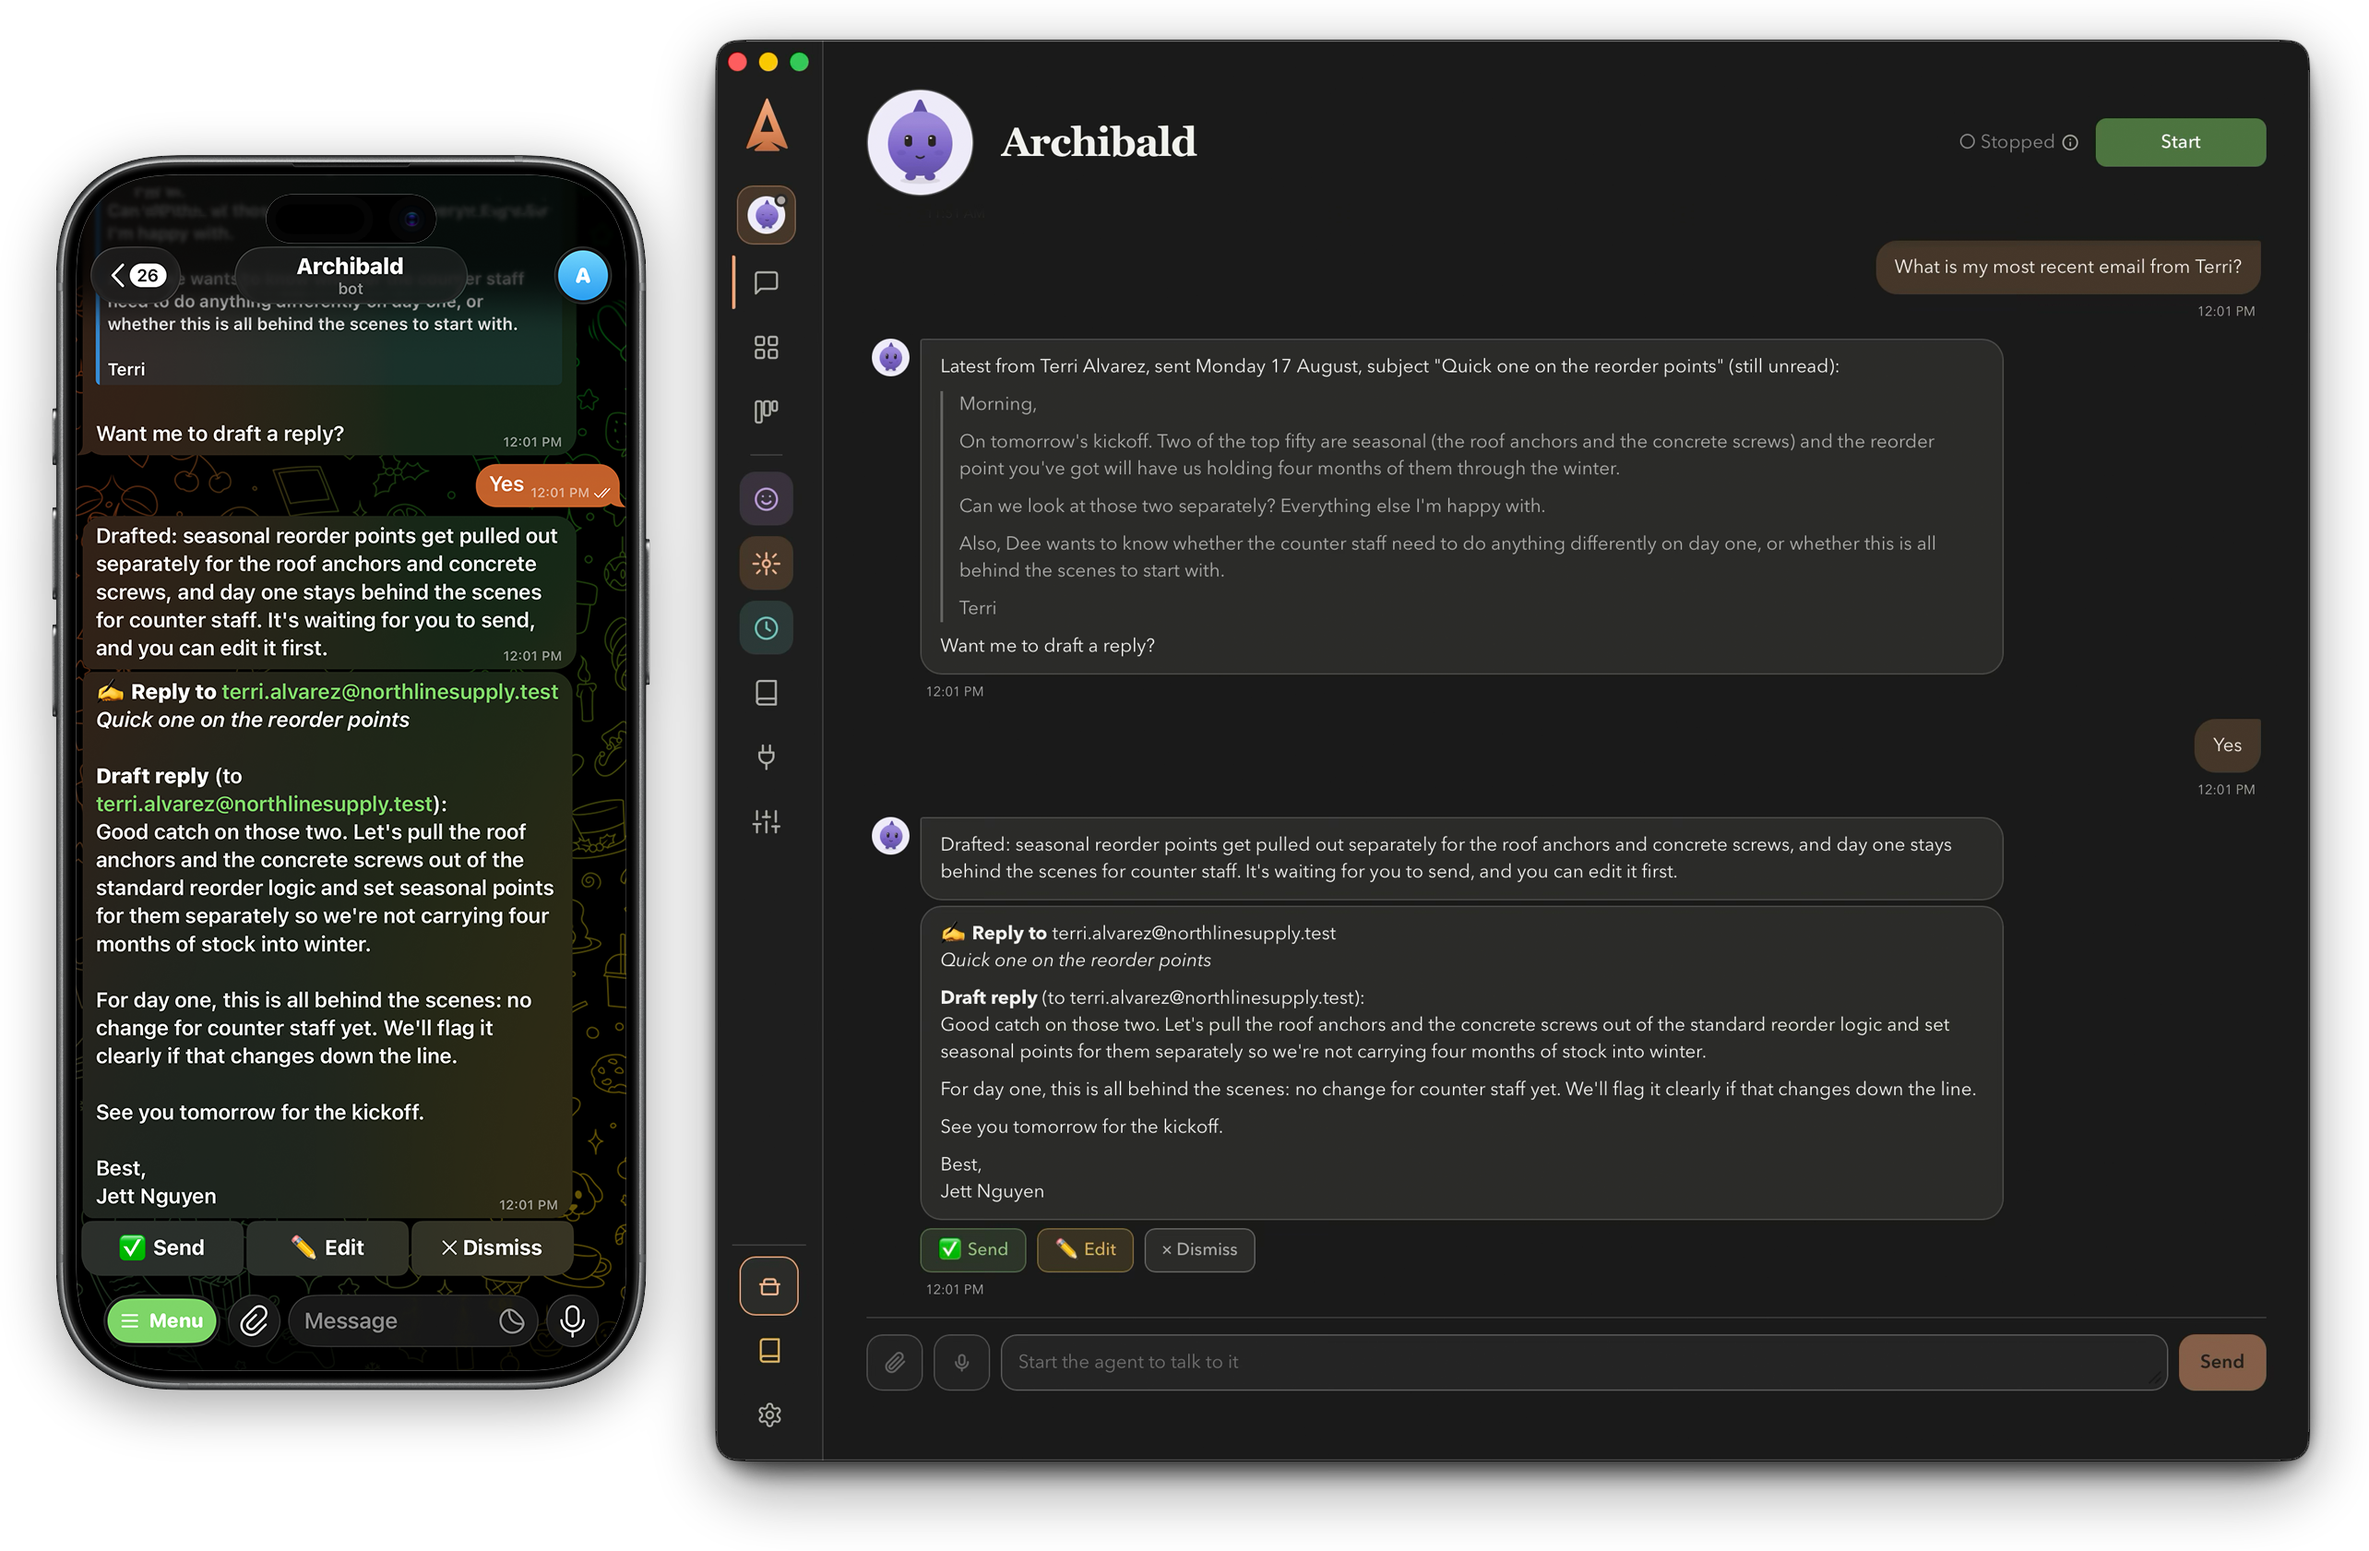
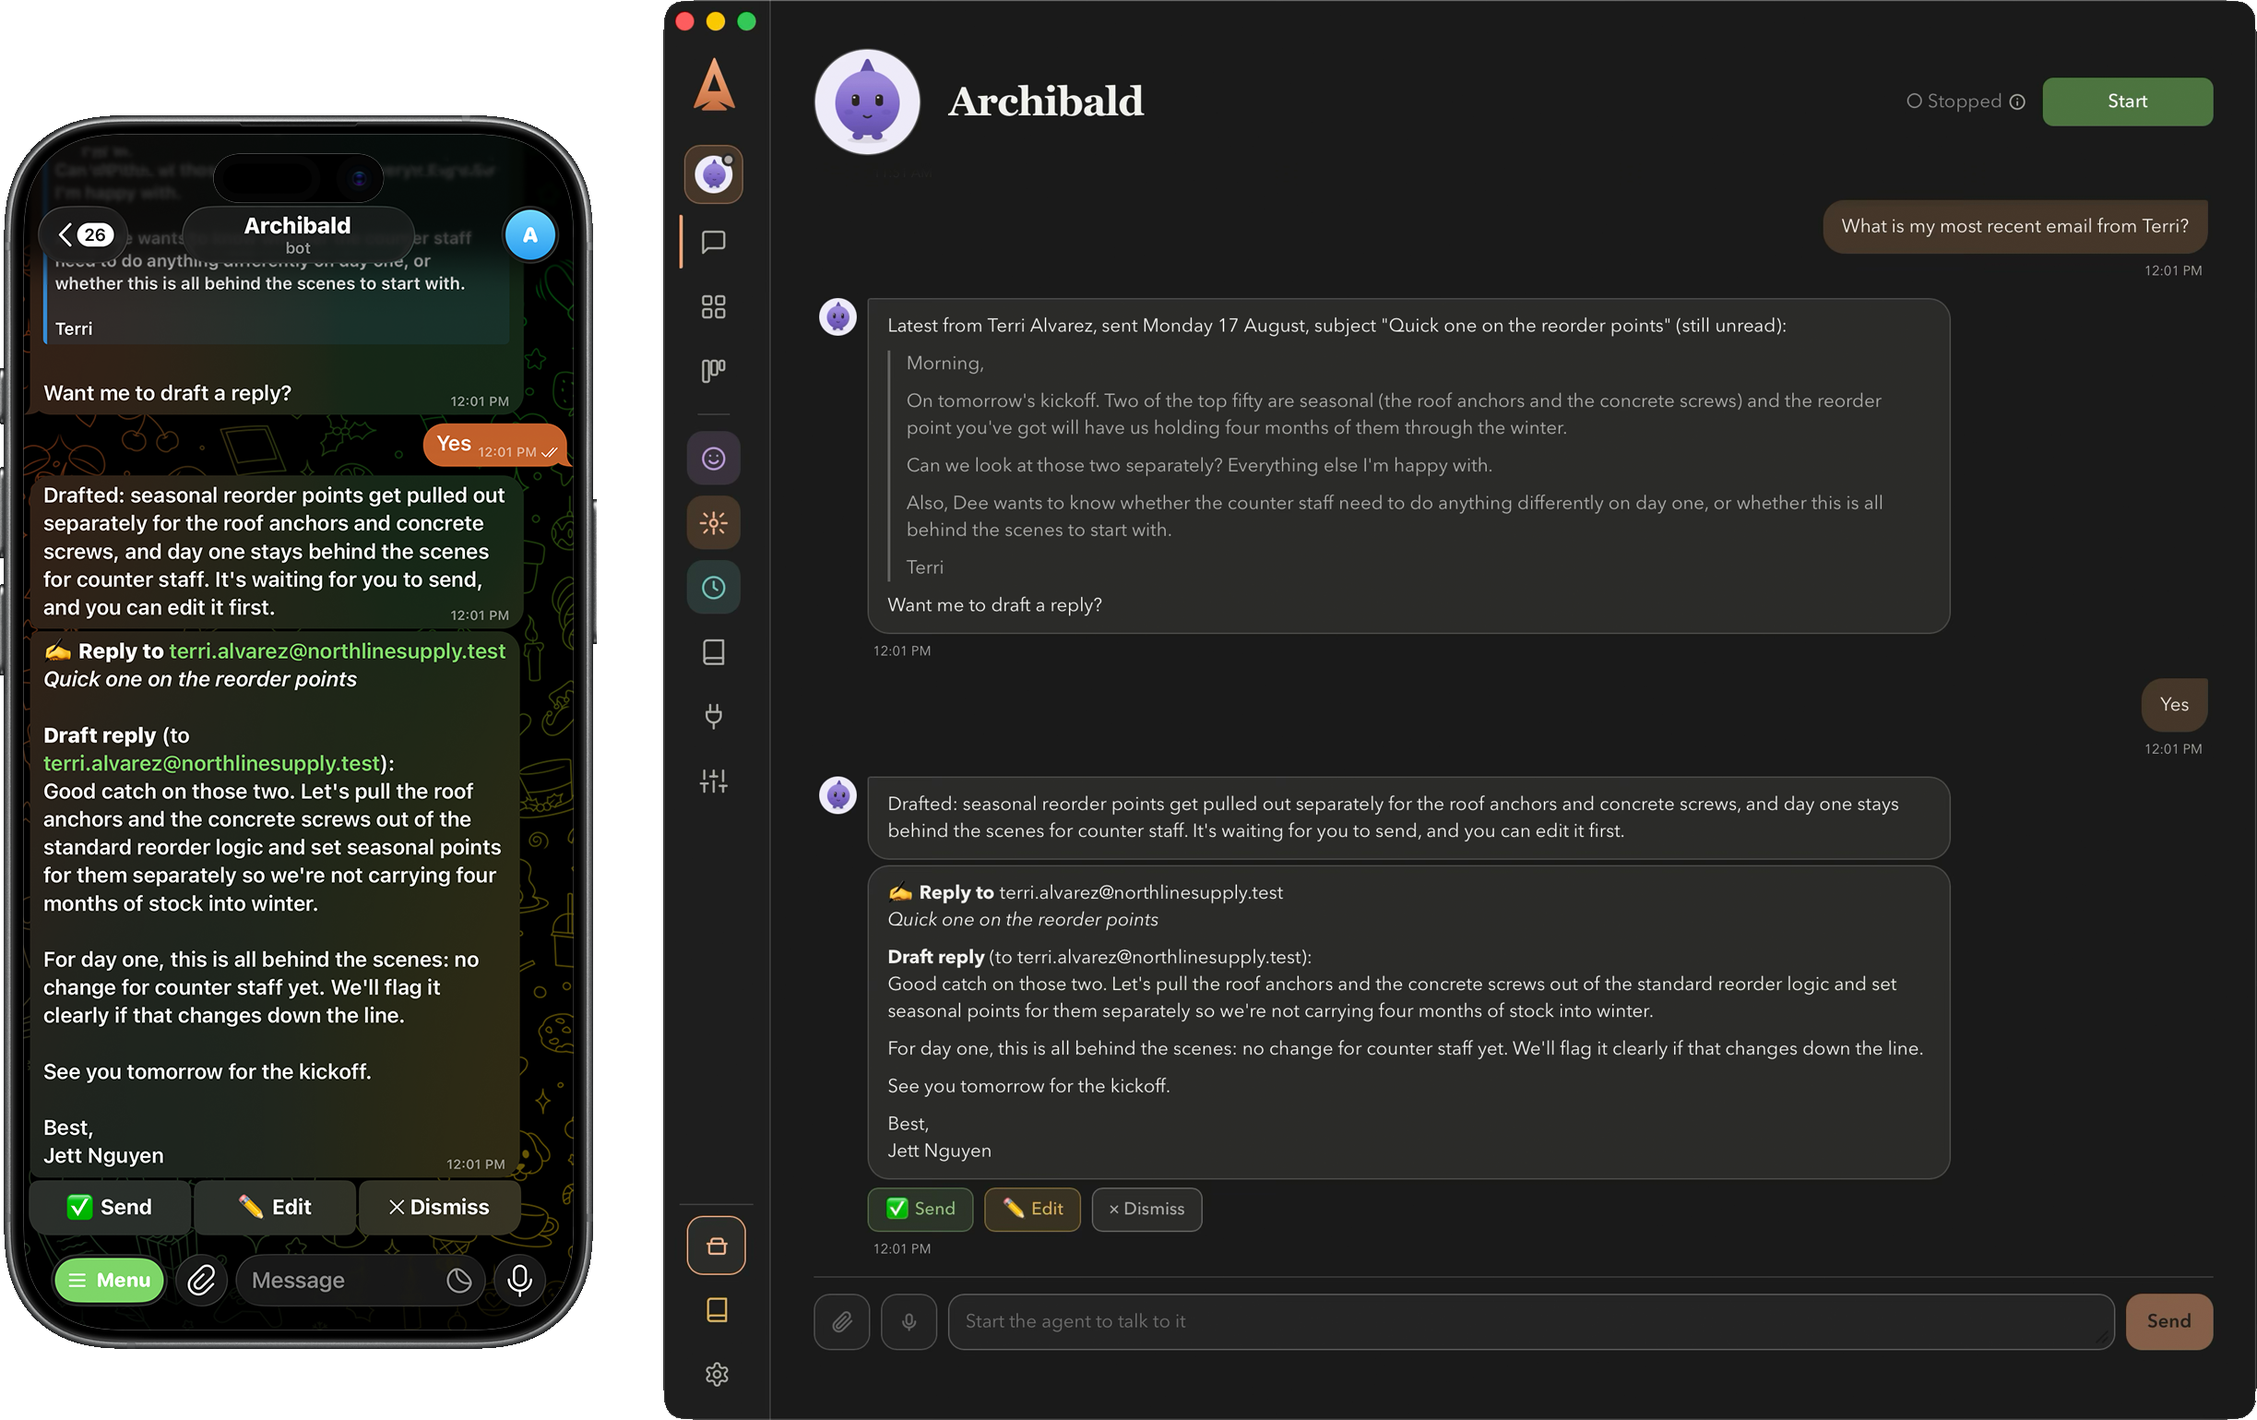
The screenshots lose their ruined edges

Changed region(s): [[0.0, 0.0, 1.0, 1.0]]

diff --git a/css/styles.css b/css/styles.css
@@ -9591,9 +9591,10 @@ html[data-theme="dark"] .booking-container iframe {
 }
 .hm-shots-tab:hover { border-color: var(--accent); color: var(--text-primary); }
 .hm-shots-tab.is-on { background: var(--accent); border-color: var(--accent); color: var(--text-on-accent); }
-/* The shots are cut out (transparent around the window), so the stage paints nothing
-   behind them: no frame, no card, no border. They are stacked in one grid cell and
-   crossfaded, which keeps the stage height steady instead of jumping between slides. */
+/* Each shot is a plain rectangle of the app window, so the rounding and the shadow are
+   the page's job, not the file's: one radius and one shadow for all three. They are
+   stacked in one grid cell and crossfaded, which keeps the stage height steady instead
+   of jumping between slides. */
 .hm-shots-stage { max-width: 860px; margin: 0 auto; display: grid; }
 .hm-shot {
   grid-area: 1 / 1; margin: 0;
@@ -9607,9 +9608,18 @@ html[data-theme="dark"] .booking-container iframe {
   opacity: 1; visibility: visible; transform: none;
   transition-delay: 0s, 0s, 0s;
 }
-/* No CSS shadow: each shot carries its own, baked around the cut-out window at the
-   same blur and offset, so the three sit on the page identically. */
-.hm-shot img { width: 100%; height: auto; }
+.hm-shot img {
+  width: 100%; height: auto; display: block;
+  border-radius: var(--radius-sm);
+  box-shadow: 0 18px 44px rgba(0, 0, 0, 0.34);
+}
+/* The chat shot is a phone standing in front of the window, so it is cut out rather than
+   rectangular: the shadow has to follow the silhouette, and a radius would round the box
+   around both of them. */
+.hm-shot--cut img {
+  border-radius: 0; box-shadow: none;
+  filter: drop-shadow(0 14px 30px rgba(0, 0, 0, 0.34));
+}
 @media (prefers-reduced-motion: reduce) {
   .hm-shot { transition: opacity 1ms linear, visibility 0s linear 1ms; transform: none; }
 }

diff --git a/index.html b/index.html
@@ -415,9 +415,9 @@
           <button type="button" class="hm-shots-tab" role="tab" aria-selected="false">In the Archie chat</button>
         </div>
         <div class="hm-shots-stage fade-up">
-          <figure class="hm-shot is-on"><img src="assets/Archie-Name-SS.png" width="2496" height="1650" alt="The Archie app, naming a new agent: a name field reading Benedict, and a box for what the agent should help with." /></figure>
-          <figure class="hm-shot"><img src="assets/Archie-Overview-SS.png" width="2561" height="1684" alt="An agent overview in Archie, showing its personality, its skills and routines, what it did lately, and what it knows about." loading="lazy" /></figure>
-          <figure class="hm-shot"><img src="assets/Archie-Chat-SS.png" width="2568" height="1681" alt="A conversation with an agent, on the computer and on a phone side by side, showing a drafted reply waiting on Send, Edit or Dismiss." loading="lazy" /></figure>
+          <figure class="hm-shot is-on"><img src="assets/Archie-Name-SS.png" width="2363" height="1517" alt="The Archie app, naming a new agent: a name field reading Benedict, and a box for what the agent should help with." /></figure>
+          <figure class="hm-shot"><img src="assets/Archie-Overview-SS.png" width="2422" height="1539" alt="An agent overview in Archie, showing its personality, its skills and routines, what it did lately, and what it knows about." loading="lazy" /></figure>
+          <figure class="hm-shot hm-shot--cut"><img src="assets/Archie-Chat-SS.png" width="2447" height="1539" alt="A conversation with an agent, on the computer and on a phone side by side, showing a drafted reply waiting on Send, Edit or Dismiss." loading="lazy" /></figure>
         </div>
       </div>
     </section>
